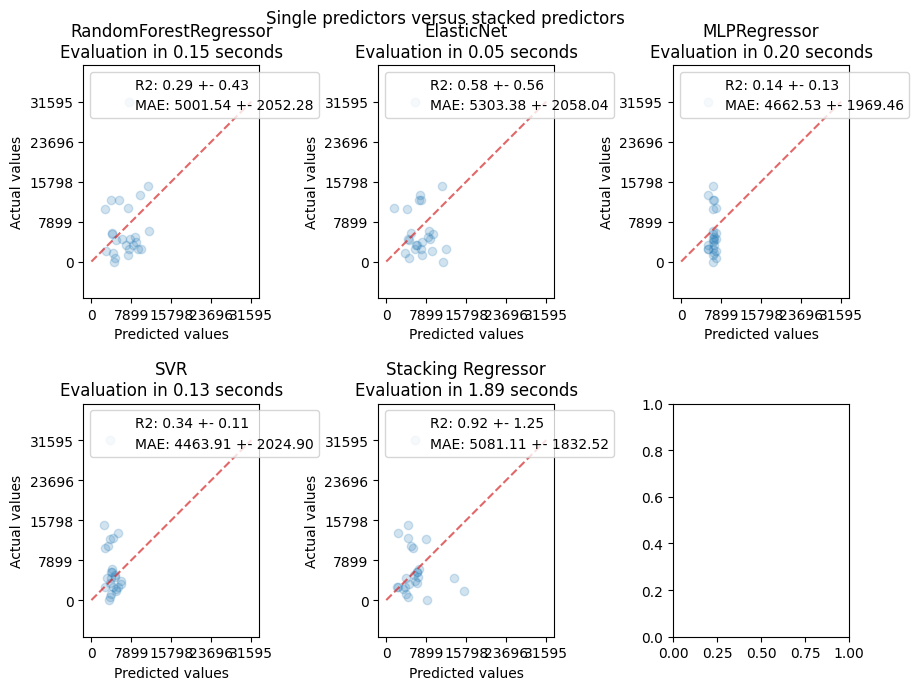
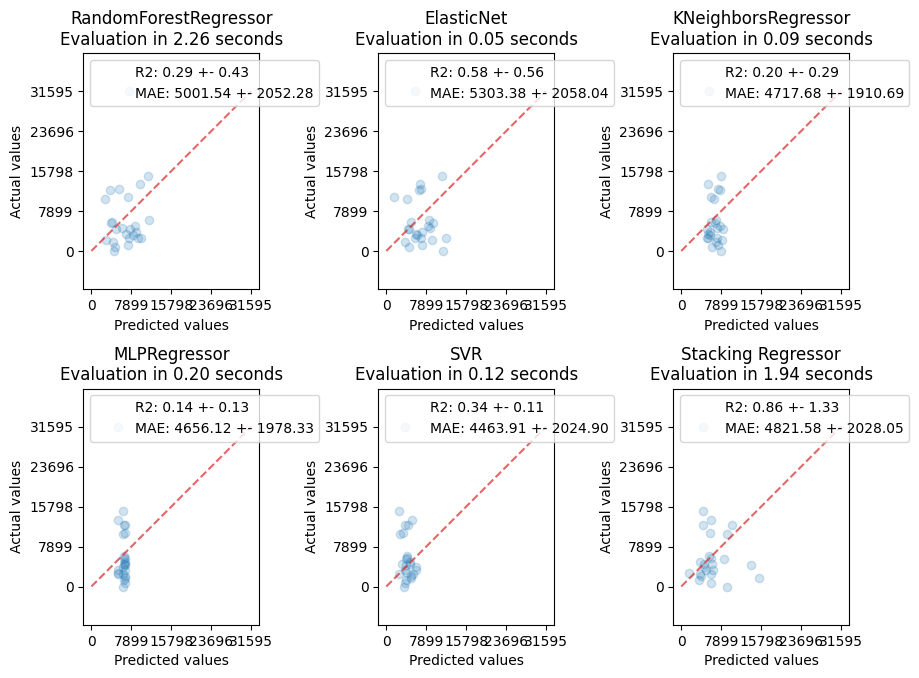
0148init

diff --git a/7-modelo/Mejor modelo.md b/7-modelo/Mejor modelo.md
@@ -53,7 +53,7 @@ Una vez hemos analizado los datos y hemos limpiado los valores erróneos de los 
   <tbody>
     <tr>
       <th>2</th>
-      <td>RandomForest</td>
+      <td>RandomForestRegressor</td>
       <td>{'rf__max_depth': 7, 'rf__max_features': 'sqrt', 'rf__n_estimators': 5, 'rf__random_state': 42}</td>
       <td>-4.475243e+07</td>
       <td>2282.013333</td>
@@ -70,13 +70,22 @@ Una vez hemos analizado los datos y hemos limpiado los valores erróneos de los 
       <td>6494.212821</td>
     </tr>
     <tr>
+      <th>4</th>
+      <td>KNeighborsRegressor</td>
+      <td>{'knn__metric': 'manhattan', 'knn__n_neighbors': 11, 'knn__weights': 'uniform'}</td>
+      <td>-4.566995e+07</td>
+      <td>5109.534545</td>
+      <td>4.310770e+07</td>
+      <td>6565.645200</td>
+    </tr>
+    <tr>
       <th>3</th>
-      <td>MLP</td>
-      <td>{'mlpr__activation': 'tanh', 'mlpr__alpha': 0.0001, 'mlpr__hidden_layer_sizes': (100, 50, 30), 'mlpr__learning_rate': 'adaptive', 'mlpr__max_iter': 50, 'mlpr__solver': 'sgd'}</td>
-      <td>-4.524895e+07</td>
-      <td>4616.211769</td>
-      <td>4.322007e+07</td>
-      <td>6574.197540</td>
+      <td>MLPRegressor</td>
+      <td>{'mlpr__activation': 'tanh', 'mlpr__alpha': 0.05, 'mlpr__hidden_layer_sizes': (100, 50, 30), 'mlpr__learning_rate': 'adaptive', 'mlpr__max_iter': 50, 'mlpr__solver': 'sgd'}</td>
+      <td>-4.550295e+07</td>
+      <td>4585.188137</td>
+      <td>4.325927e+07</td>
+      <td>6577.177888</td>
     </tr>
     <tr>
       <th>1</th>
@@ -89,7 +98,6 @@ Una vez hemos analizado los datos y hemos limpiado los valores erróneos de los 
     </tr>
   </tbody>
 </table>
-
 
 La tabla anterior muestra ciertas métricas para los algoritmos probados. Al ordenar la tabla por el RMSE vemos qué algoritmo predice un poco mejor y observamos aquellos hiperparámetros que mejor score obtienen.
 
